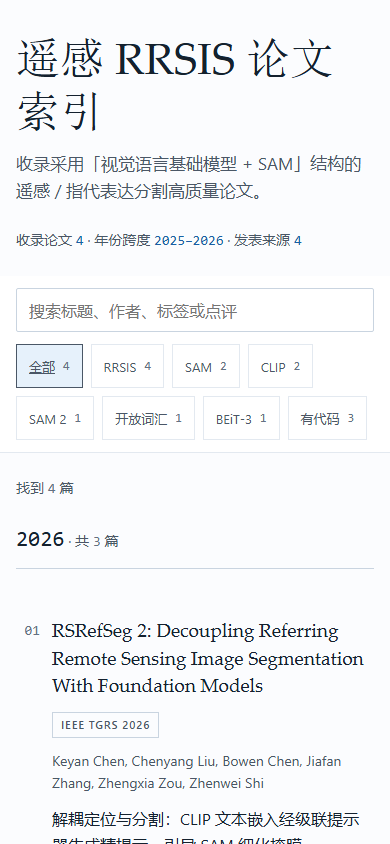
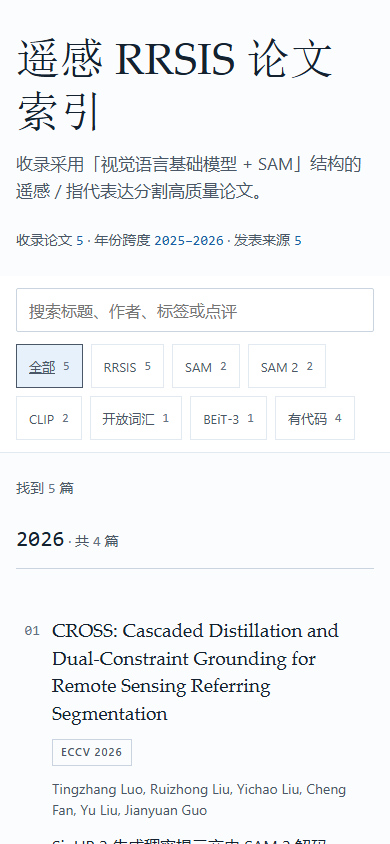
feat: 收录 ECCV 2026 CROSS，更新统计与界面预览

diff --git a/data/papers.js b/data/papers.js
@@ -27,13 +27,26 @@
  * 收录标准：仅限遥感 / RRSIS 方向，且采用「视觉语言基础模型 + SAM / SAM2」结构。
  *       「视觉语言基础模型」指经图文联合预训练的跨模态模型（CLIP / BEiT-3 / Qwen-VL 等），
  *       纯文本编码器（BERT / RoBERTa）或纯视觉骨干（ResNet / RS-VFM）不计入。
- *       2026-11-09 已清除 3 条 demo 版式示意条目，当前 4 条均为真实收录。
+ *       2026-11-09 已清除 3 条 demo 版式示意条目；2026-11-10 收录 ECCV 2026 的 CROSS，
+ *       当前 5 条均为真实收录。
  */
 window.PAPERS = {
   schemaVersion: 1,
-  updated: "2026-11-09",
-  tagWhitelist: ["VLM", "SAM", "SAM 2", "适配器", "提示学习", "遥感", "RRSIS", "开放词汇", "文本条件", "指代分割", "CLIP", "BEiT-3", "训练无关"],
+  updated: "2026-11-10",
+  tagWhitelist: ["VLM", "SAM", "SAM 2", "适配器", "提示学习", "遥感", "RRSIS", "开放词汇", "文本条件", "指代分割", "CLIP", "BEiT-3", "SigLIP 2", "训练无关"],
   papers: [
+    {
+      id: "luo2026cross",
+      title: "CROSS: Cascaded Distillation and Dual-Constraint Grounding for Remote Sensing Referring Segmentation",
+      authors: ["Tingzhang Luo", "Ruizhong Liu", "Yichao Liu", "Cheng Fan", "Yu Liu", "Jianyuan Guo"],
+      year: 2026,
+      venue: "ECCV",
+      venueType: "conference",
+      tags: ["RRSIS", "SigLIP 2", "SAM 2"],
+      comment: "SigLIP 2 生成稠密提示交由 SAM 2 解码，SAM 2 几何亲和再反蒸馏回 VLM 中间层。",
+      paperUrl: "https://media.eventhosts.cc/Conferences/ECCV2026/pdfs/9662.pdf",
+      codeUrl: "https://github.com/Clarence-CV/CROSS"
+    },
     {
       id: "chen2025rsrefseg",
       title: "RSRefSeg: Referring Remote Sensing Image Segmentation with Foundation Models",

diff --git a/docs/maintenance.md b/docs/maintenance.md
@@ -12,7 +12,7 @@
 
 只收录**遥感 / RRSIS（Referring Remote Sensing Image Segmentation）方向、且采用「视觉语言基础模型（VLM）+ SAM / SAM2」结构**的高质量论文。通用视觉工作、与遥感无关、或未使用 VLM+SAM 结构的工作一律不收。
 
-判定口径：**VLM 指经图文联合预训练的跨模态模型**（CLIP、BEiT-3、Qwen-VL、LLaVA、Grounding DINO 等）；纯文本编码器（BERT / RoBERTa）、纯视觉骨干（ResNet / RS-VFM）、文生图扩散模型均不计入。SAM 须作为分割骨干实际参与，仅在引言中提及不算。数据集/通用地球观测基础模型若非专门解决 RRSIS，也不收。
+判定口径：**VLM 指经图文联合预训练的跨模态模型**（CLIP、BEiT-3、SigLIP 2、Qwen-VL、LLaVA、Grounding DINO 等）；纯文本编码器（BERT / RoBERTa）、纯视觉骨干（ResNet / RS-VFM）、文生图扩散模型均不计入。SAM 须作为分割骨干实际参与，仅在引言中提及不算。数据集/通用地球观测基础模型若非专门解决 RRSIS，也不收。
 
 ## 本地打开
 
@@ -53,7 +53,7 @@
 
 ## 当前收录状态
 
-2026-11-09 已清除全部 `demo` 版式示意条目，现有 **4 篇真实收录**（RSRefSeg、RSRefSeg 2、RS2-SAM2、Training-Free Text-Based RS Segmentation）。演示 banner 由 `papers.some(p => p.demo)` 驱动，无 demo 记录时自动隐藏。
+2026-11-09 已清除全部 `demo` 版式示意条目；2026-11-10 新增 ECCV 2026 的 CROSS，现有 **5 篇真实收录**（CROSS、RSRefSeg、RSRefSeg 2、RS2-SAM2、Training-Free Text-Based RS Segmentation）。演示 banner 由 `papers.some(p => p.demo)` 驱动，无 demo 记录时自动隐藏。
 
 若日后需要临时预览版式，可给条目加 `demo: true`（并填 `note` 说明非真实收录），删掉即恢复；不要为示意条目虚构会议收录或方法结论。
 

diff --git a/README.md b/README.md
@@ -8,6 +8,6 @@
 
 本站收录**遥感 / RRSIS（Referring Remote Sensing Image Segmentation）方向、采用「视觉语言基础模型 + SAM / SAM2」结构**的高质量论文，逐条整理作者、发表处、方法标签、中文点评与原文、代码链接。
 
-收录口径较严：视觉语言基础模型指经图文联合预训练的跨模态模型（CLIP、BEiT-3、Qwen-VL 等），纯文本编码器、纯视觉骨干、文生图扩散模型均不计入；SAM 须作为分割骨干实际参与。目前收录 4 篇（2025–2026）。
+收录口径较严：视觉语言基础模型指经图文联合预训练的跨模态模型（CLIP、BEiT-3、SigLIP 2、Qwen-VL 等），纯文本编码器、纯视觉骨干、文生图扩散模型均不计入；SAM 须作为分割骨干实际参与。目前收录 5 篇（2025–2026）。
 
 索引界面为期刊式浅色版式，支持关键词搜索、方法标签筛选与按年份倒序分组，点击论文标题即可跳转原文。站点是纯静态 HTML / CSS / 原生 JS，无构建、无依赖、不加载 CDN，双击 `index.html` 或访问上方在线地址看到的是同一套内容。
